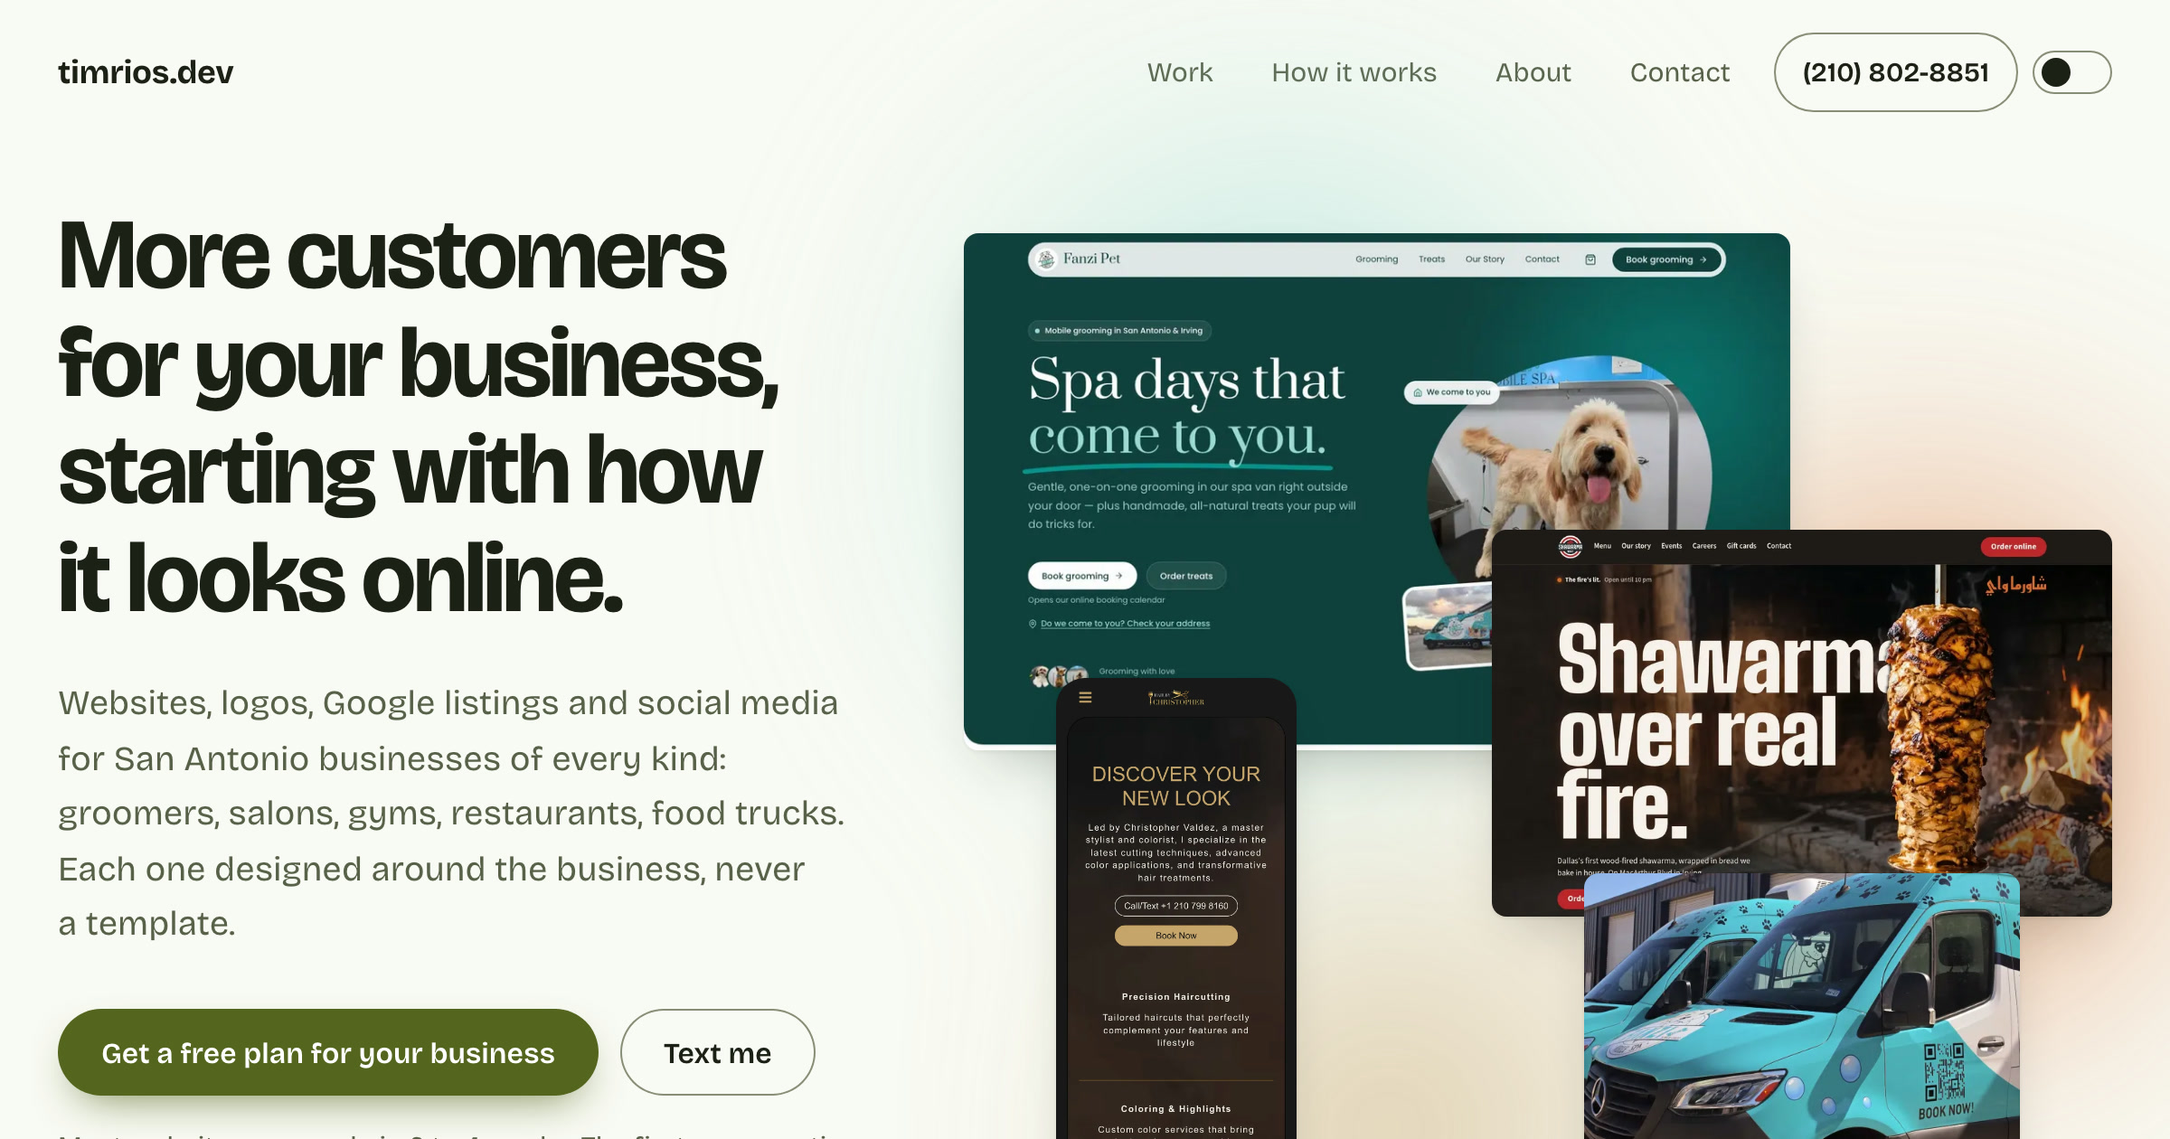
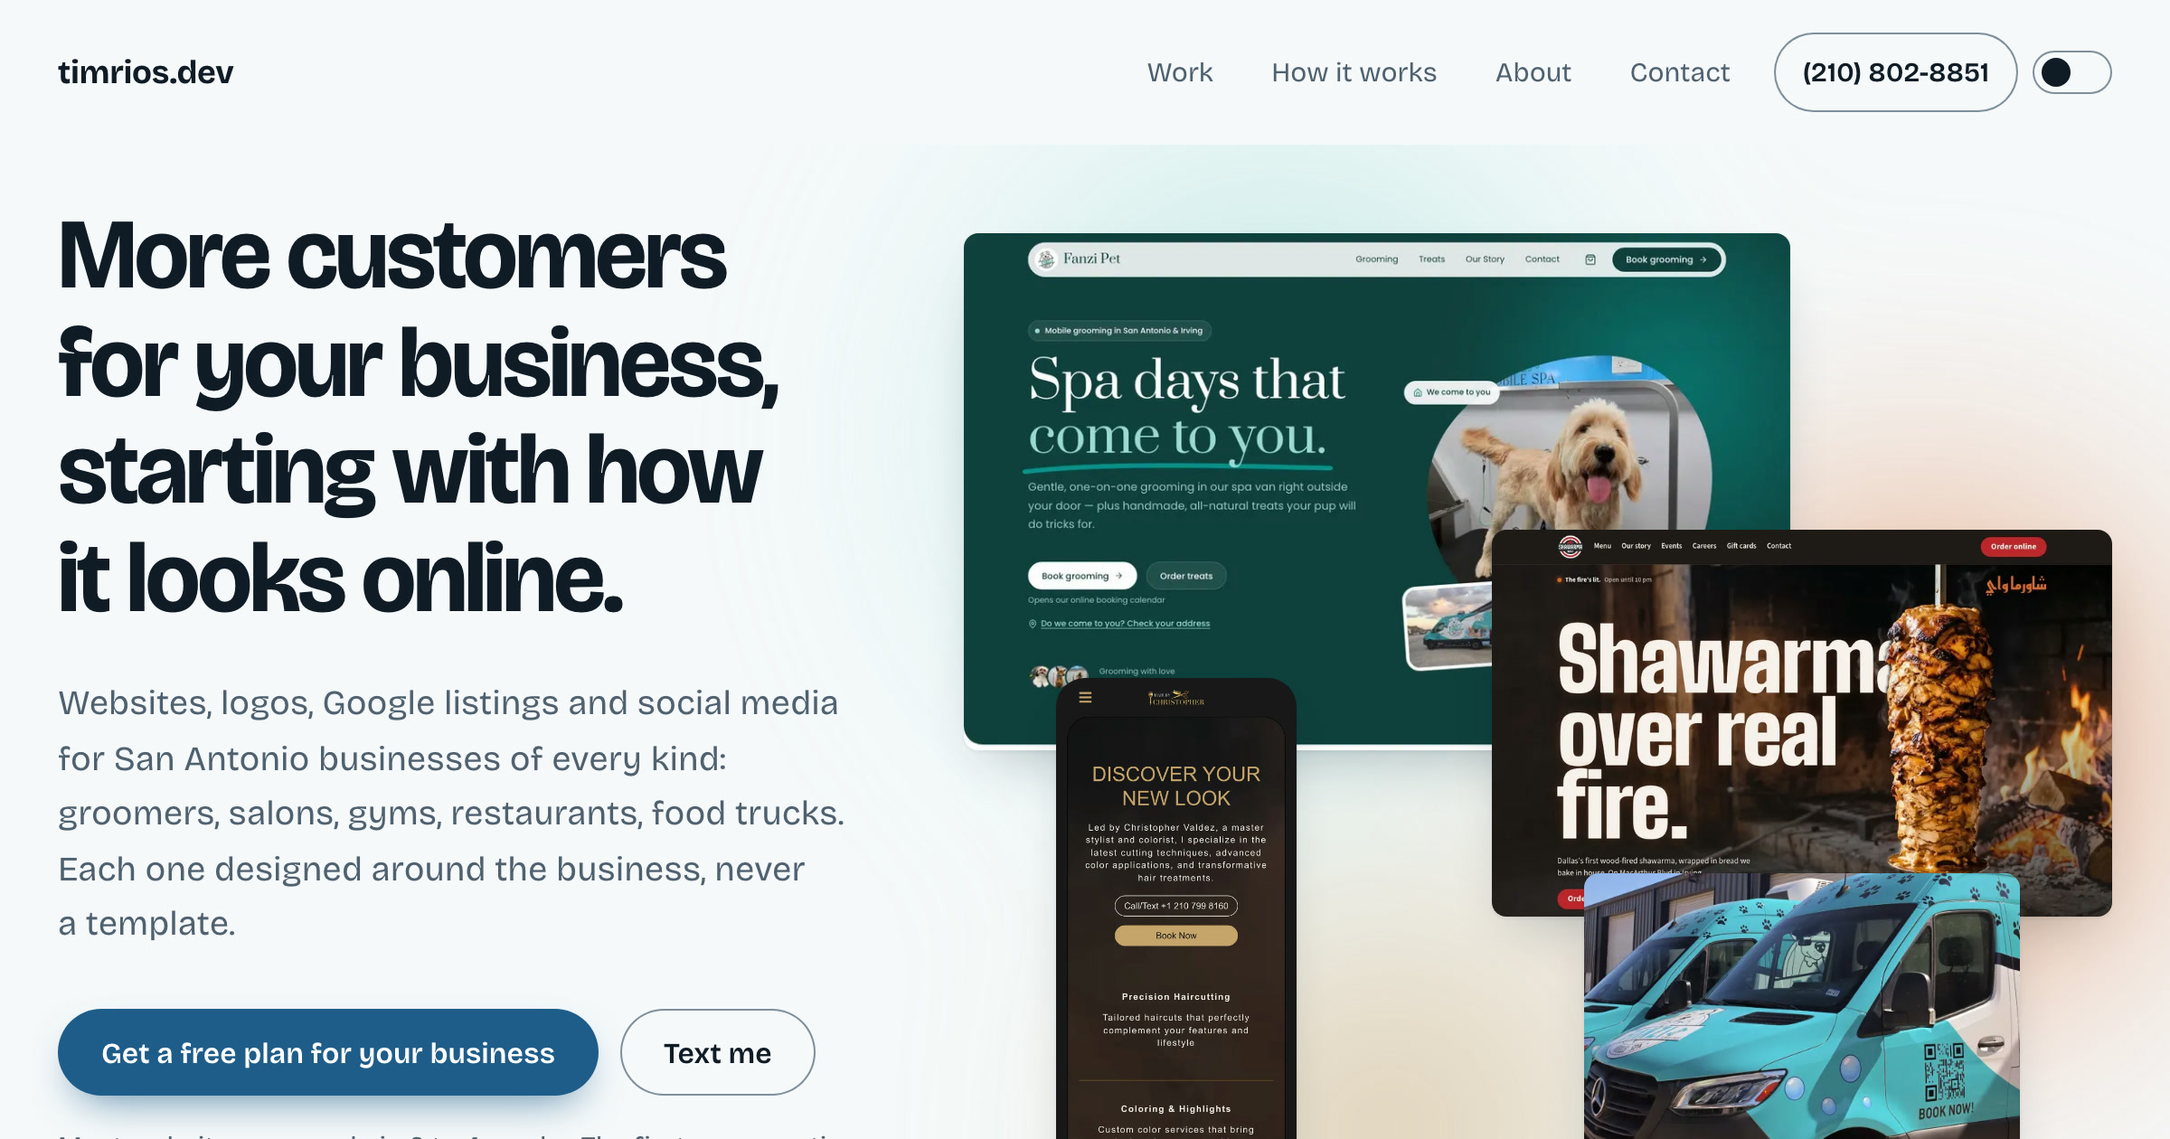
Prussian blue palette; the menu stays pinned and turns deep ink
Olive read as a wellness site. Prussian blue, the printer's ink and
blueprint color, as a family of three shades. The header is pinned and
takes the deep-ink surface once scrolled, so the menu and text number
stand out. The slider's handle now shows arrows both ways.

diff --git a/src/styles/global.css b/src/styles/global.css
@@ -2,25 +2,25 @@
    Light is the default; html[data-theme="dark"] switches every semantic token. A script in the page head sets
    data-theme before the page paints, from the visitor's saved choice or else their device setting. */
 :root {
-  /* Palette: the olive family (DESIGN.md → Color) */
-  --color-moss-deep: #1e2416;
-  --color-olive: #55651f;
-  --color-sage: #eef1df;
-  --color-sage-mist: #f9faf4;
+  /* Palette: the Prussian blue family (DESIGN.md → Color) */
+  --color-ink-deep: #0e2433;
+  --color-prussian: #1f5c8a;
+  --color-blueprint: #e4eef5;
+  --color-blueprint-mist: #f6f9fb;
   --color-white: #ffffff;
-  --color-ink: #1c2016;
-  --color-lichen: #586049;
-  --color-reed: #878d76;
+  --color-ink: #0f1b26;
+  --color-steel: #4f6070;
+  --color-slate: #7f8e9c;
   --color-brick: #b42318;
-  --color-moss-night: #13170d;
-  --color-moss-card: #1c2114;
-  --color-moss-band: #2a3218;
-  --color-chartreuse: #b9cc6a;
-  --color-linen: #eef1e6;
-  --color-dry-grass: #b0b79e;
-  --color-bark: #6e765c;
-  --color-lichen-light: #c4cbb3;
-  --color-fern: #7d8566;
+  --color-navy-night: #0a1822;
+  --color-navy-card: #102331;
+  --color-navy-band: #15314a;
+  --color-sky: #8ec3ea;
+  --color-frost: #eaf1f7;
+  --color-mist-gray: #a9bacb;
+  --color-harbor: #5f7387;
+  --color-steel-light: #b9c8d6;
+  --color-dusk: #6e8499;
   --color-coral: #ff8a7a;
   /* Client artwork mat and print */
   --color-paper: #f2eee6;
@@ -30,22 +30,22 @@
 
   /* Semantic: light */
   color-scheme: light;
-  --bg: var(--color-sage-mist);
-  --deep-bg: var(--color-moss-deep);
-  --band: var(--color-sage);
+  --bg: var(--color-blueprint-mist);
+  --deep-bg: var(--color-ink-deep);
+  --band: var(--color-blueprint);
   --surface: var(--color-white);
   --text: var(--color-ink);
-  --text-muted: var(--color-lichen);
-  --rule: color-mix(in srgb, var(--color-olive) 14%, transparent);
-  --field-border: var(--color-reed);
-  --accent: var(--color-olive);
+  --text-muted: var(--color-steel);
+  --rule: color-mix(in srgb, var(--color-prussian) 14%, transparent);
+  --field-border: var(--color-slate);
+  --accent: var(--color-prussian);
   --on-accent: var(--color-white);
   --focus: var(--accent);
   --error: var(--color-brick);
-  --code: var(--color-lichen);
+  --code: var(--color-steel);
   --shadow:
-    0 1px 2px color-mix(in srgb, var(--color-moss-deep) 6%, transparent),
-    0 14px 30px -14px color-mix(in srgb, var(--color-moss-deep) 30%, transparent);
+    0 1px 2px color-mix(in srgb, var(--color-ink-deep) 6%, transparent),
+    0 14px 30px -14px color-mix(in srgb, var(--color-ink-deep) 30%, transparent);
 
   /* Type */
   --font-display: var(--font-bricolage);
@@ -88,43 +88,46 @@
 
 :root[data-theme="dark"] {
   color-scheme: dark;
-  --bg: var(--color-moss-night);
-  --deep-bg: var(--color-moss-band);
-  --band: var(--color-moss-card);
-  --surface: var(--color-moss-card);
-  --text: var(--color-linen);
-  --text-muted: var(--color-dry-grass);
-  --rule: color-mix(in srgb, var(--color-chartreuse) 14%, transparent);
-  --field-border: var(--color-bark);
-  --accent: var(--color-chartreuse);
-  --on-accent: var(--color-moss-deep);
+  --bg: var(--color-navy-night);
+  --deep-bg: var(--color-navy-band);
+  --band: var(--color-navy-card);
+  --surface: var(--color-navy-card);
+  --text: var(--color-frost);
+  --text-muted: var(--color-mist-gray);
+  --rule: color-mix(in srgb, var(--color-sky) 14%, transparent);
+  --field-border: var(--color-harbor);
+  --accent: var(--color-sky);
+  --on-accent: var(--color-ink-deep);
   --error: var(--color-coral);
-  --code: var(--color-dry-grass);
+  --code: var(--color-mist-gray);
   --shadow:
     0 1px 2px color-mix(in srgb, var(--color-black) 40%, transparent),
     0 18px 40px -16px color-mix(in srgb, var(--color-black) 70%, transparent);
 }
 
-/* A whole section in the deep shade (results, closing, footer): every token inside switches to read on deep moss,
-   and a soft glow of the olive gives the band depth */
+/* A deep-ink surface (the scrolled header, results, closing, footer): every token inside switches to read on it */
+.on-deep {
+  background: var(--deep-bg);
+  color: var(--color-white);
+  --text: var(--color-white);
+  --text-muted: var(--color-steel-light);
+  --rule: color-mix(in srgb, var(--color-sky) 18%, transparent);
+  --field-border: var(--color-dusk);
+  --accent: var(--color-sky);
+  --on-accent: var(--color-ink-deep);
+  --focus: var(--accent);
+}
+
+:root[data-theme="dark"] .on-deep {
+  --text: var(--color-frost);
+  color: var(--color-frost);
+}
+
+/* A whole band on that surface, with a soft glow of the Prussian blue for depth */
 .deep {
   position: relative;
   isolation: isolate;
   overflow: hidden;
-  background: var(--deep-bg);
-  color: var(--color-white);
-  --text: var(--color-white);
-  --text-muted: var(--color-lichen-light);
-  --rule: color-mix(in srgb, var(--color-chartreuse) 18%, transparent);
-  --field-border: var(--color-fern);
-  --accent: var(--color-chartreuse);
-  --on-accent: var(--color-moss-deep);
-  --focus: var(--accent);
-}
-
-:root[data-theme="dark"] .deep {
-  --text: var(--color-linen);
-  color: var(--color-linen);
 }
 
 .deep::before {
@@ -134,7 +137,7 @@
   inset: -60% 30% -60% -15%;
   background: radial-gradient(
     closest-side,
-    color-mix(in srgb, var(--color-olive) 55%, transparent),
+    color-mix(in srgb, var(--color-prussian) 65%, transparent),
     transparent
   );
   pointer-events: none;
@@ -158,6 +161,7 @@
 
 html {
   background: var(--bg);
+  scroll-padding-top: 6rem; /* Links to a section land below the pinned header */
   -webkit-text-size-adjust: 100%;
 }
 

diff --git a/DESIGN.md b/DESIGN.md
@@ -26,7 +26,7 @@ from what convinces a buyer.
 
 1. **Results first.** The first screen says what the owner gets (more customers) and shows real work; the next shows
    real numbers, each tied to the kind of business it came from.
-2. **The work brings the color.** Tim's frame is an olive family (see Color), quiet enough that client sites, logos and photos
+2. **The work brings the color.** Tim's frame is a Prussian blue family (see Color), quiet enough that client sites, logos and photos
    keep their own colors and are what the eye goes to.
 3. **Room to breathe.** Normal-width type at moderate sizes, wide margins, generous section spacing. Nothing fills the
    screen edge to edge.
@@ -45,39 +45,40 @@ from what convinces a buyer.
 
 ## Color
 
-**Olive** (Tim, 2026-11-04). A single accent on white read as a website-builder default, and purple has become an
-AI-design tell. Like Fanzi's teal, one hue becomes a family of three shades, each with a job: the **deep moss** carries
-whole sections (results, closing, footer), the **olive** does buttons and links, the **sage** tints the page and
-pale panels. Earthy, warm and local (Hill Country), and unlike any client's colors (teal, gold, red, ember).
+**Prussian blue** (2026-11-04). A single accent on white read as a website-builder default; purple has become an
+AI-design tell; olive read as a wellness site. Prussian blue is the printer's ink and the blueprint blue: crafted,
+trustworthy and fitting for someone who builds, deep and muted rather than bright web blue. Like Fanzi's teal, one hue
+becomes a family of three shades, each with a job: **deep ink** carries whole sections (the header once scrolled,
+results, closing, footer), **Prussian** does buttons and links, **blueprint** tints the page and pale panels.
 
 Two complete looks. `html[data-theme]` holds the visitor's choice; with none, the device setting decides
 (`prefers-color-scheme`). An inline script in the head applies it before the page paints. The dark look is built from
-the same hue (very deep moss), not a neutral gray, so both looks are one brand.
+the same hue (deep navy), not a neutral gray, so both looks are one brand.
 
 ### Palette
 
-| Token                  | Hex       | Name        | Use                                            |
-| ---------------------- | --------- | ----------- | ---------------------------------------------- |
-| `--color-moss-deep`    | `#1E2416` | Deep moss   | Deep bands in light; cards in dark             |
-| `--color-olive`        | `#55651F` | Olive       | Accent in light: buttons, links, focus         |
-| `--color-sage`         | `#EEF1DF` | Sage        | Pale panels, tags (light)                      |
-| `--color-sage-mist`    | `#F9FAF4` | Sage mist   | Page (light)                                   |
-| `--color-white`        | `#FFFFFF` | White       | Cards (light)                                  |
-| `--color-ink`          | `#1C2016` | Ink         | Text (light); handle and tags on screenshots   |
-| `--color-lichen`       | `#586049` | Lichen      | Secondary text (light)                         |
-| `--color-reed`         | `#878D76` | Reed        | Field edges (light)                            |
-| `--color-brick`        | `#B42318` | Brick       | Errors (light)                                 |
-| `--color-moss-night`   | `#13170D` | Moss night  | Page (dark)                                    |
-| `--color-moss-card`    | `#1C2114` | Moss card   | Cards and fields (dark)                        |
-| `--color-moss-band`    | `#2A3218` | Moss band   | Deep bands (dark)                              |
-| `--color-chartreuse`   | `#B9CC6A` | Chartreuse  | Accent in dark and inside deep bands           |
-| `--color-linen`        | `#EEF1E6` | Linen       | Text (dark)                                    |
-| `--color-dry-grass`    | `#B0B79E` | Dry grass   | Secondary text (dark)                          |
-| `--color-bark`         | `#6E765C` | Bark        | Field edges (dark)                             |
-| `--color-lichen-light` | `#C4CBB3` | Pale lichen | Secondary text inside deep bands               |
-| `--color-fern`         | `#7D8566` | Fern        | Field edges inside deep bands                  |
-| `--color-coral`        | `#FF8A7A` | Coral       | Errors (dark)                                  |
-| `--color-paper`        | `#F2EEE6` | Paper       | Mat behind client artwork drawn for light backgrounds |
+| Token                    | Hex       | Name           | Use                                            |
+| ------------------------ | --------- | -------------- | ---------------------------------------------- |
+| `--color-ink-deep`       | `#0E2433` | Deep ink       | Deep bands in light                            |
+| `--color-prussian`       | `#1F5C8A` | Prussian       | Accent in light: buttons, links, focus         |
+| `--color-blueprint`      | `#E4EEF5` | Blueprint      | Pale panels, tags (light)                      |
+| `--color-blueprint-mist` | `#F6F9FB` | Blueprint mist | Page (light)                                   |
+| `--color-white`          | `#FFFFFF` | White          | Cards (light)                                  |
+| `--color-ink`            | `#0F1B26` | Ink            | Text (light); handle and tags on screenshots   |
+| `--color-steel`          | `#4F6070` | Steel          | Secondary text (light)                         |
+| `--color-slate`          | `#7F8E9C` | Slate          | Field edges (light)                            |
+| `--color-brick`          | `#B42318` | Brick          | Errors (light)                                 |
+| `--color-navy-night`     | `#0A1822` | Navy night     | Page (dark)                                    |
+| `--color-navy-card`      | `#102331` | Navy card      | Cards and fields (dark)                        |
+| `--color-navy-band`      | `#15314A` | Navy band      | Deep bands (dark)                              |
+| `--color-sky`            | `#8EC3EA` | Sky            | Accent in dark and inside deep bands           |
+| `--color-frost`          | `#EAF1F7` | Frost          | Text (dark)                                    |
+| `--color-mist-gray`      | `#A9BACB` | Mist gray      | Secondary text (dark)                          |
+| `--color-harbor`         | `#5F7387` | Harbor         | Field edges (dark)                             |
+| `--color-steel-light`    | `#B9C8D6` | Pale steel     | Secondary text inside deep bands               |
+| `--color-dusk`           | `#6E8499` | Dusk           | Field edges inside deep bands                  |
+| `--color-coral`          | `#FF8A7A` | Coral          | Errors (dark)                                  |
+| `--color-paper`          | `#F2EEE6` | Paper          | Mat behind client artwork drawn for light backgrounds |
 | `--color-black`, `--color-print-white`, `--color-print-gray` | | Print | Resume print only |
 
 ### Semantic tokens
@@ -85,22 +86,22 @@ the same hue (very deep moss), not a neutral gray, so both looks are one brand.
 Components use these, never the palette tokens directly (exceptions: the paper mat, the print colors, and the
 slider's handle and tags, which sit on client screenshots).
 
-| Token            | Light      | Dark       | Inside `.deep` bands | Use                          |
-| ---------------- | ---------- | ---------- | -------------------- | ---------------------------- |
-| `--bg`           | sage mist  | moss night | deep moss (dark: moss band) | Page / band background |
-| `--band`         | sage       | moss card  |                      | Pale panels, tags            |
-| `--surface`      | white      | moss card  |                      | Cards, preview window, fields |
-| `--text`         | ink        | linen      | white / linen        | Text                         |
-| `--text-muted`   | lichen     | dry grass  | pale lichen          | Secondary text               |
-| `--rule`         | olive 14%  | chartreuse 14% | chartreuse 18%   | Hairlines (decorative)       |
-| `--field-border` | reed       | bark       | fern                 | Field and toggle edges (3:1) |
-| `--accent`       | olive      | chartreuse | chartreuse           | Buttons, links, focus        |
-| `--on-accent`    | white      | deep moss  | deep moss            | Text on the accent           |
-| `--error`        | brick      | coral      |                      | Errors                       |
-| `--shadow`       | moss-tinted, soft | black, deeper |               | Cards and screenshots        |
+| Token            | Light          | Dark        | Inside `.on-deep` | Use                           |
+| ---------------- | -------------- | ----------- | ----------------- | ----------------------------- |
+| `--bg`           | blueprint mist | navy night  | deep ink (dark: navy band) | Page / band background |
+| `--band`         | blueprint      | navy card   |                   | Pale panels, tags             |
+| `--surface`      | white          | navy card   |                   | Cards, preview window, fields |
+| `--text`         | ink            | frost       | white / frost     | Text                          |
+| `--text-muted`   | steel          | mist gray   | pale steel        | Secondary text                |
+| `--rule`         | Prussian 14%   | sky 14%     | sky 18%           | Hairlines (decorative)        |
+| `--field-border` | slate          | harbor      | dusk              | Field and toggle edges (3:1)  |
+| `--accent`       | Prussian       | sky         | sky               | Buttons, links, focus         |
+| `--on-accent`    | white          | deep ink    | deep ink          | Text on the accent            |
+| `--error`        | brick          | coral       |                   | Errors                        |
+| `--shadow`       | ink-tinted, soft | black, deeper |               | Cards and screenshots         |
 
-`.deep` is a class for whole sections in the deep shade (results band, closing, footer): it switches the tokens above
-for everything inside, and adds a soft glow of the olive.
+`.on-deep` switches the tokens above for everything inside a deep-ink surface (the scrolled header, results band,
+closing, footer). `.deep` adds a soft glow of the Prussian blue inside the band (not the header).
 
 ### Client colors
 
@@ -111,19 +112,19 @@ Each project's `accent` in `projects.ts` appears only as the small square marker
 
 | Text / element  | On                   | Ratio |
 | --------------- | -------------------- | ----- |
-| ink             | sage mist / sage / white | 15.8 / 14.4 / 16.6 |
-| lichen          | sage mist / sage / white | 6.3 / 5.7 / 6.6 |
-| olive (links)   | sage mist / sage / white | 6.1 / 5.6 / 6.4 |
-| white on olive  | button               | 6.4   |
-| reed edge       | sage mist / sage     | 3.3 / 3.0 |
-| white / pale lichen / chartreuse | deep moss | 15.9 / 9.5 / 9.0 |
-| fern edge       | deep moss            | 4.1   |
-| linen           | moss night / moss card / moss band | 15.9 / 14.4 / 11.7 |
-| dry grass       | moss night / moss card / moss band | 8.8 / 7.9 / 6.5 |
-| chartreuse      | moss night / moss card / moss band | 10.3 / 9.3 / 7.6 |
-| deep moss on chartreuse | button (dark) | 9.0   |
-| bark edge       | moss night / moss card | 3.8 / 3.5 |
-| brick / coral   | light page / dark page | 6.3 / 7.9 |
+| ink             | blueprint mist / blueprint / white | 16.5 / 14.8 / 17.4 |
+| steel           | blueprint mist / blueprint / white | 6.1 / 5.5 / 6.5 |
+| Prussian (links) | blueprint mist / blueprint / white | 6.7 / 6.0 / 7.1 |
+| white on Prussian | button             | 7.1   |
+| slate edge      | blueprint mist / white | 3.2 / 3.4 (never on blueprint panels: 2.9) |
+| white / pale steel / sky | deep ink    | 15.9 / 9.3 / 8.5 |
+| dusk edge       | deep ink             | 4.1   |
+| frost           | navy night / navy card / navy band | 15.8 / 14.1 / 11.7 |
+| mist gray       | navy night / navy card / navy band | 9.1 / 8.1 / 6.7 |
+| sky             | navy night / navy card / navy band | 9.6 / 8.5 / 7.1 |
+| deep ink on sky | button (dark)        | 8.5   |
+| harbor edge     | navy night / navy card | 3.7 / 3.3 |
+| brick / coral   | light page / dark page | 6.2 / 7.9 |
 
 ## Typography
 
@@ -230,7 +231,8 @@ Mobile-first; write these directly in `@media` rules.
 | **Reels**          | Silent loops, play only while visible, one pause button.                          |
 | **Buttons**        | Hover darkens the accent slightly; ghost buttons gain a stronger edge.            |
 | **Links**          | A 2px accent bar under the text that fills in behind it on hover (text turns `--on-accent`). |
-| **Cards**          | Soft moss-tinted shadow, no border; lift 3px on hover.                            |
+| **Cards**          | Soft ink-tinted shadow, no border; lift 3px on hover.                             |
+| **Header**         | Pinned to the top. At the top of the page it sits on the page; once scrolled 16px it switches to the deep-ink surface (`.on-deep`) with a shadow, 0.3s, so the menu and the text number always stand out. |
 | **Primary button** | A soft glow of the accent beneath it.                                             |
 
 ### Reduced motion
